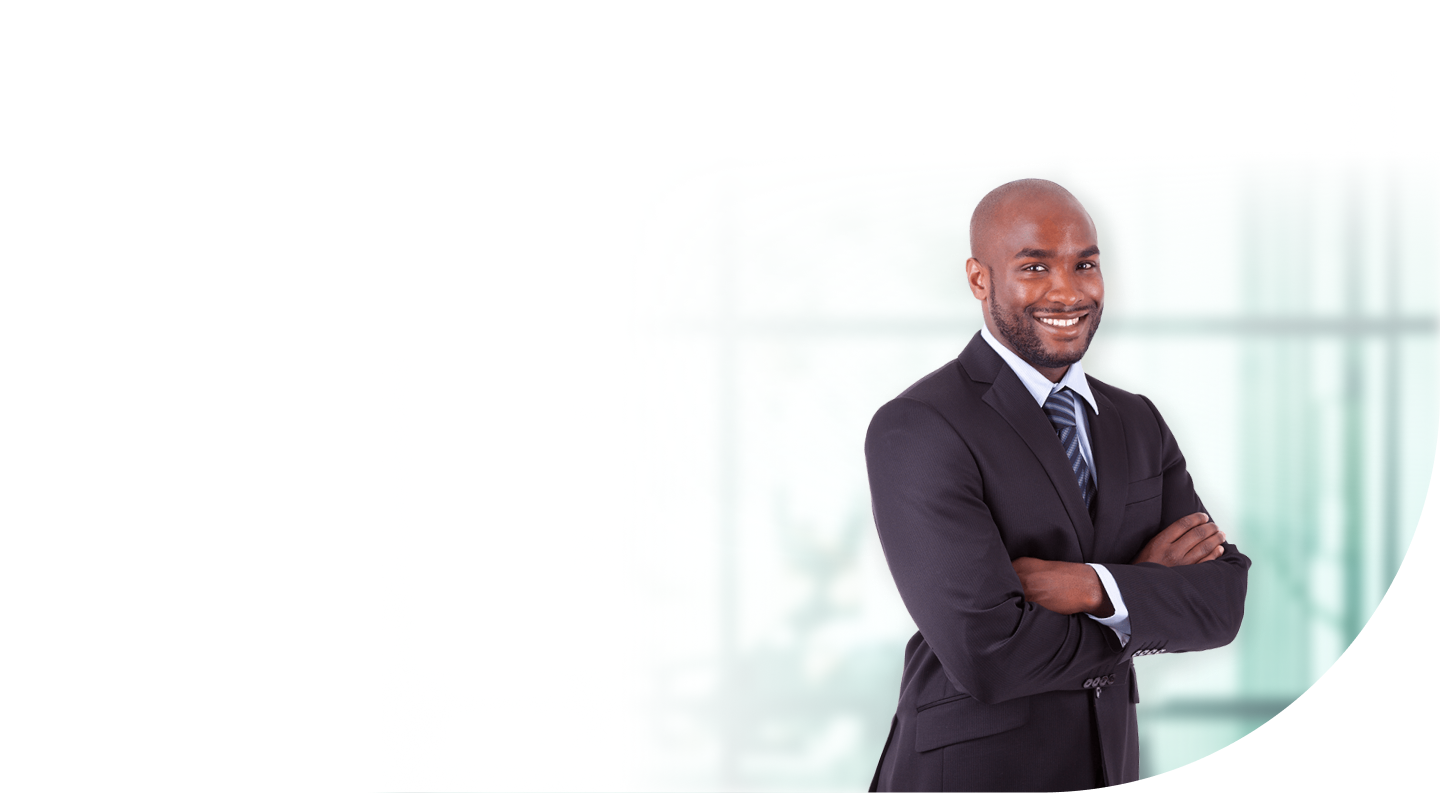
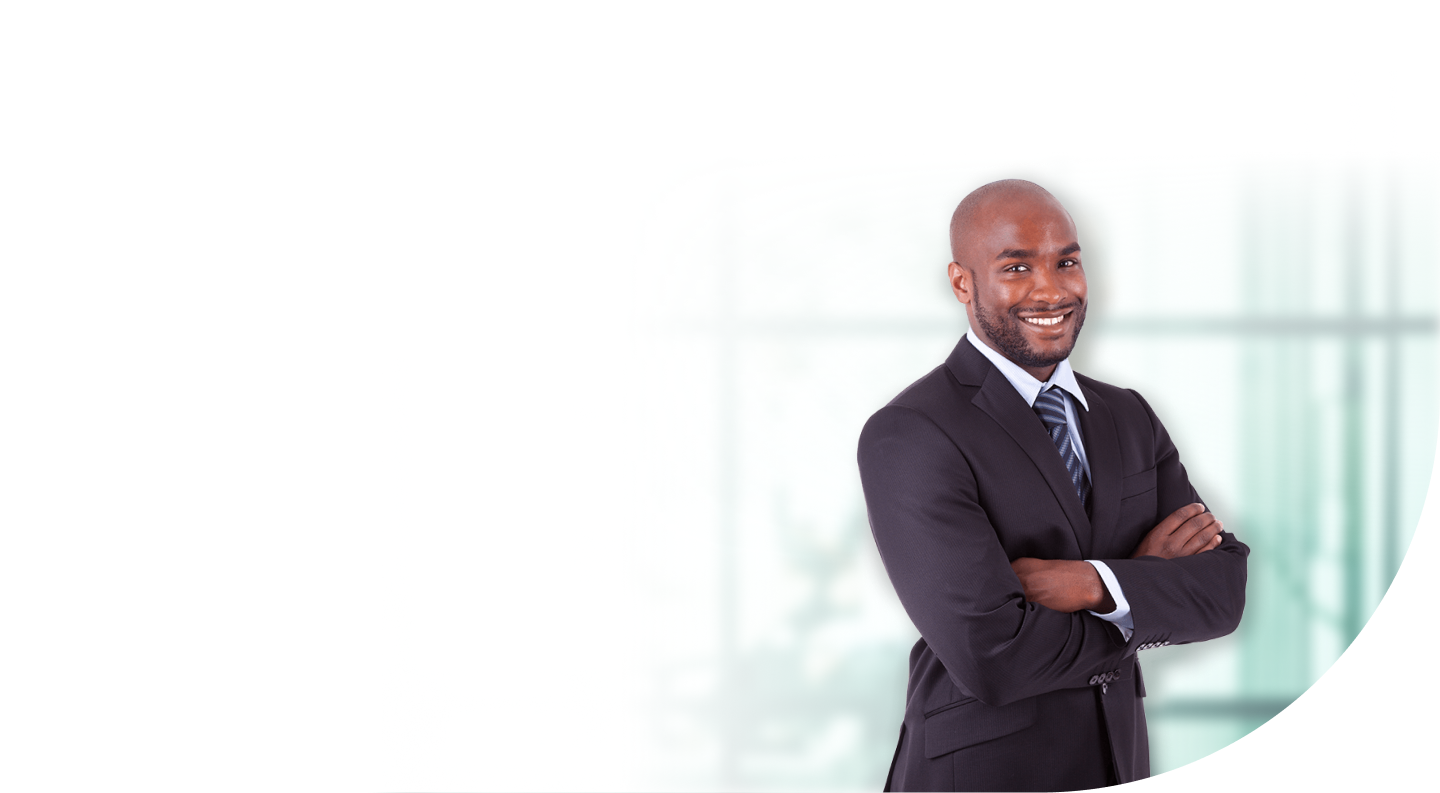
Completing page header

diff --git a/src/app.js b/src/app.js
@@ -1,9 +1,15 @@
 import React from "react";
 import "bootstrap/dist/css/bootstrap.min.css";
 import Navbarcomp from "./components/navbar";
-import { Container, SectionHeader } from "./styles/grid";
-import { HeaderBG } from "./styles/images";
-import { Jumbotron } from "react-bootstrap";
+import { Container, SectionHeader, InfoProduct } from "./styles/grid";
+import { HeaderBG, CheckVerde } from "./styles/images";
+import {
+  TitleHeader,
+  SubTitleHeader,
+  InfoProductP,
+  InfoProductSpan,
+} from "./styles/texts";
+import { ButtonGreen, ButtomSaberMais } from "./styles/buttom";
 
 const App = () => {
   return (
@@ -12,11 +18,42 @@ const App = () => {
         <Container>
           <Navbarcomp />
           <SectionHeader>
-            <h1>Gestão Rápida e Inteligente de Notas Fiscais</h1>
-            <p>
-              Organize e automatize 100% do seu fluxo de recebimento com
+            <TitleHeader>
+              Gestão Rápida <br /> e Inteligente de <br /> Notas Fiscais
+            </TitleHeader>
+            <SubTitleHeader>
+              Organize e automatize 100% do seu fluxo de recebimento <br /> com
               inteligência artifical em uma solução completa.
-            </p>
+            </SubTitleHeader>
+            <InfoProduct>
+              <CheckVerde />
+              <InfoProductP>
+                Planos a partir de <InfoProductSpan>R$ 39,90</InfoProductSpan>
+              </InfoProductP>
+              <CheckVerde />
+              <InfoProductP>
+                <InfoProductSpan>ROI garantido</InfoProductSpan> em contrato
+              </InfoProductP>
+            </InfoProduct>
+            <InfoProduct>
+              <ButtonGreen>Solicitar Demonstração</ButtonGreen>
+              <ButtomSaberMais>
+                Quero Saber Mais{" "}
+                <svg
+                  xmlns="http://www.w3.org/2000/svg"
+                  width="16"
+                  height="16"
+                  fill="currentColor"
+                  class="bi bi-arrow-down"
+                  viewBox="0 0 16 16"
+                >
+                  <path
+                    fill-rule="evenodd"
+                    d="M8 1a.5.5 0 0 1 .5.5v11.793l3.146-3.147a.5.5 0 0 1 .708.708l-4 4a.5.5 0 0 1-.708 0l-4-4a.5.5 0 0 1 .708-.708L7.5 13.293V1.5A.5.5 0 0 1 8 1z"
+                  />
+                </svg>
+              </ButtomSaberMais>
+            </InfoProduct>
           </SectionHeader>
         </Container>
       </HeaderBG>

diff --git a/src/styles/buttom.js b/src/styles/buttom.js
@@ -11,9 +11,9 @@ export const ButtonOutline = styled.button`
   border-color: #041c43;
   border-radius: 0.4rem;
   font-size: 0.9rem;
-  font-weight: 700;
+  font-weight: 800;
 `;
-export const ButtonGreen = styled.button`
+export const ButtonGreenNav = styled.button`
   background-color: #17cf81;
   padding: 0rem 1.5rem;
   font-family: "Nunito Sans", "Sans-Serif";
@@ -21,9 +21,33 @@ export const ButtonGreen = styled.button`
   border: none;
   border-radius: 0.4rem;
   font-size: 0.9rem;
-  font-weight: 700;
+  font-weight: 800;
+  box-shadow: 0.3rem 0.3rem 0.7rem #a2f6b9;
+`;
+export const ButtonGreen = styled.button`
+  background-color: #17cf81;
+  padding: 1rem 2rem;
+  font-family: "Nunito Sans", "Sans-Serif";
+  color: #fff;
+  border: none;
+  border-radius: 0.4rem;
+  font-size: 0.9rem;
+  font-weight: 800;
   box-shadow: 0.3rem 0.3rem 0.7rem #a2f6b9;
 `;
 export const NavLink = styled(Nav.Link)`
+  font-family: "Nunito Sans", "Sans-Serif";
+  font-weight: 700;
+  color: #576275;
   margin: 0 0.7rem;
+`;
+export const ButtomSaberMais = styled.button`
+  background-color: transparent;
+  margin: 0 28px;
+  padding: 1rem 2rem;
+  font-family: "Nunito Sans", "Sans-Serif";
+  color: #041c43;
+  border: none;
+  font-size: 0.9rem;
+  font-weight: 800;
 `;

diff --git a/src/styles/texts.js b/src/styles/texts.js
@@ -1,6 +1,27 @@
 import React from "react";
 import styled from "styled-components";
 
-export const titleHeader = styled.h1`
-  
-`
+export const TitleHeader = styled.h1`
+  font-family: "Poppins", "Sans-Serif";
+  font-weight: 600;
+  font-size: 3.5rem;
+  color: #041c43;
+  margin: 30px 0;
+`;
+export const SubTitleHeader = styled.h3`
+  font-family: "Nunito Sans", "Sans-Serif";
+  font-size: 1.25rem;
+  color: #576275;
+`;
+export const InfoProductP = styled.p`
+  font-family: "Nunito Sans", "Sans-Serif";
+  margin: 0 48px 0 13px;
+  color: #576275;
+  font-weight: 600;
+`;
+export const InfoProductSpan = styled.span`
+  font-family: "Nunito Sans", "Sans-Serif";
+  font-weight: 900;
+  color: #17cf81;
+  margin: 0;
+`;

diff --git a/src/styles/images.js b/src/styles/images.js
@@ -1,16 +1,24 @@
 import React from "react";
 import bgheader from "../assets/images/Group84.png";
 import logo from "../assets/images/logo-rm.svg";
+import checkVerde from "../assets/images/icone-check-verde.svg";
 import styled from "styled-components";
 
 export const HeaderBG = styled.div`
   background-image: url(${bgheader});
   background-repeat: no-repeat;
   background-size: 100% auto;
+  width: 1440px;
+  margin: 0 auto;
   height: 100vh;
 `;
 export const LogoRM = styled.img.attrs((props) => ({
   src: props.Img || logo,
 }))`
   width: 9.5rem;
+`;
+export const CheckVerde = styled.img.attrs((props) => ({
+  src: props.Img || checkVerde,
+}))`
+  width: 1.4rem;
 `;

diff --git a/src/components/navbar.js b/src/components/navbar.js
@@ -1,7 +1,7 @@
 import React from "react";
 import { LogoRM } from "../styles/images";
 import { Navbar, Nav } from "../styles/grid";
-import { ButtonOutline, ButtonGreen, NavLink } from "../styles/buttom";
+import { ButtonOutline, ButtonGreenNav, NavLink } from "../styles/buttom";
 
 const Navbarcomp = () => {
   return (
@@ -14,7 +14,7 @@ const Navbarcomp = () => {
           <NavLink>Dúvidas</NavLink>
           <NavLink>Contato</NavLink>
           <ButtonOutline>Login</ButtonOutline>
-          <ButtonGreen>Solicitar Demonstração</ButtonGreen>
+          <ButtonGreenNav>Solicitar Demonstração</ButtonGreenNav>
         </Nav>
       </div>
     </Navbar>

diff --git a/src/styles/grid.js b/src/styles/grid.js
@@ -9,11 +9,21 @@ export const Container = styled(strapContainer).attrs({ fluid: true })`
   width: 85%;
 `;
 export const Navbar = styled(strapNavbar)`
-  width: 100%;
+  width: 1200px;
+  padding: 0;
   background-color: transparent;
   justify-content: space-between;
 `;
 export const Nav = styled(strapNav)`
   flex-wrap: wrap;
 `;
-export const SectionHeader = styled.section``;
+export const SectionHeader = styled.section`
+  width: 100%;
+  margin: 97px 0 0 0;
+`;
+export const InfoProduct = styled.div`
+  margin: 30px 0;
+  display: flex;
+  flex-direction: row;
+  align-items: center;
+`;

diff --git a/public/index.html b/public/index.html
@@ -11,7 +11,7 @@
         crossorigin="anonymous"
     />
     <link rel="preconnect" href="https://fonts.gstatic.com">
-    <link href="https://fonts.googleapis.com/css2?family=Nunito+Sans:wght@400;600;800&family=Poppins:wght@500;600&display=swap" rel="stylesheet">
+    <link href="https://fonts.googleapis.com/css2?family=Nunito+Sans:wght@400;600;700;800;900&family=Poppins:wght@500;600&display=swap" rel="stylesheet">
     <title>Document</title>
 </head>
 <body style="background-color: #EDF3F8;">
